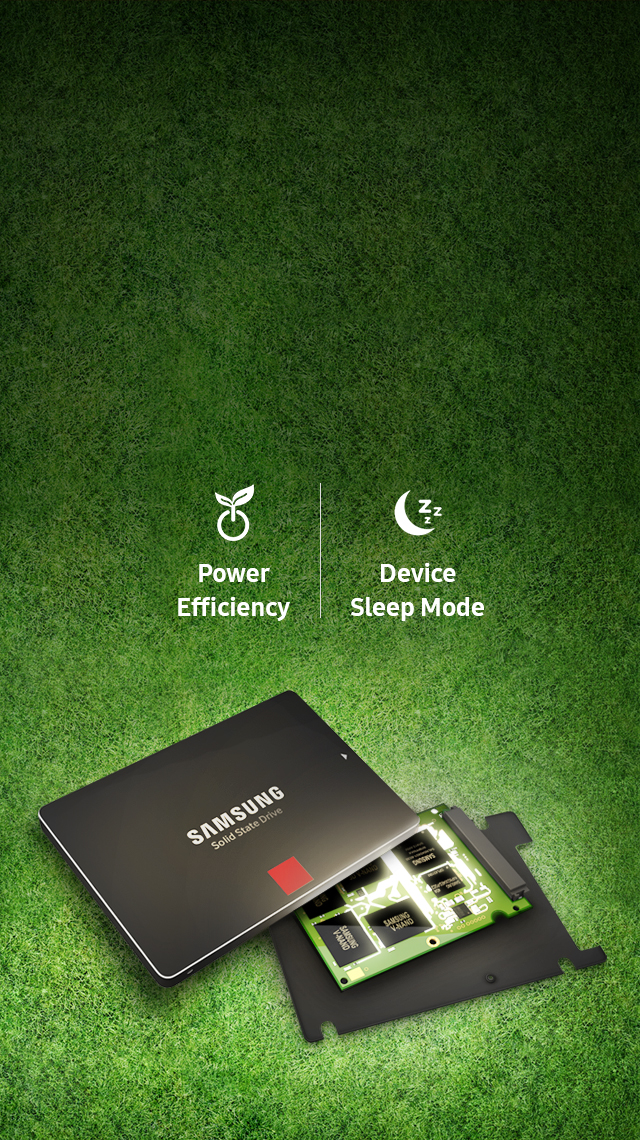
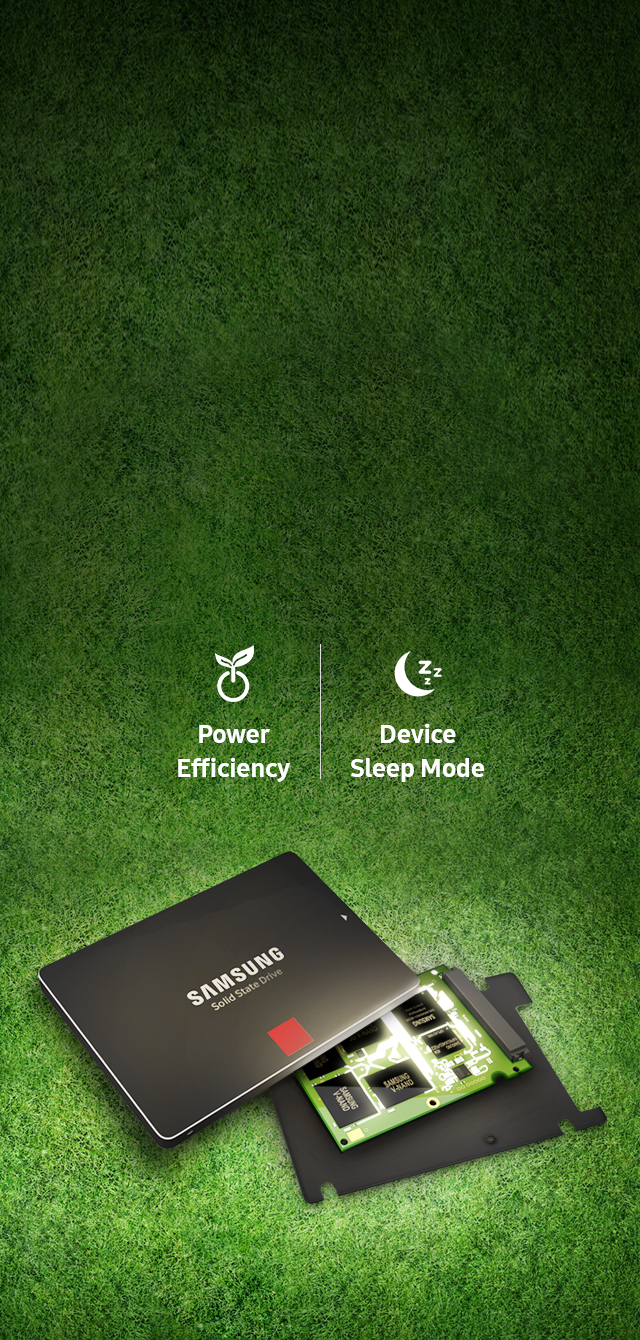
no message

diff --git a/semiconductor/minisite/ssd/common/css/samsung.css b/semiconductor/minisite/ssd/common/css/samsung.css
@@ -594,6 +594,7 @@ a.btn-jump span {text-transform:none}
     .key-visual.home_kv .screen .focus-msg.black_style h1{text-shadow:none;}
     .key-visual.home_kv .screen .focus-msg.black_style .txt{color:#fff;text-shadow:none;}
     .key-visual.home_kv .screen .focus-msg .act a{font-size: 14px;}
+    .key-visual.home_kv .screen .focus-msg.black_style .act a{color:#0057A4}
 }
 @media (min-width:768px) and (max-width:1023px){
     .key-visual .screen .focus-msg h1 a{font-size:16px}
@@ -601,6 +602,7 @@ a.btn-jump span {text-transform:none}
     .key-visual.home_kv .screen{padding-top:470px;background-size:auto 292px;background-position:right -207px top 0}/* index용 키비쥬얼 추가 css */
     .key-visual.home_kv .screen img{ height: 470px;}
     .key-visual .btn-ico.video{top:146px}
+    
 }
 @media (max-width:767px){
     .key-visual {margin-bottom:20px}
@@ -1578,6 +1580,7 @@ div.btn-go-top .icon-up-arrow {overflow:hidden;position:absolute;left:-9999px;to
 @media (min-width:768px) and (max-width:1023px) {
     .grid-row.v_nand .grid-col4 {width: 50%;}
     .grid-row.v_nand .grid-col4:nth-child(3) .col-inner{border: none;}
+    .grid-row.v_nand .grid-col4 .col-inner{border-left:none}
 
 }
 @media (max-width:767px) {
